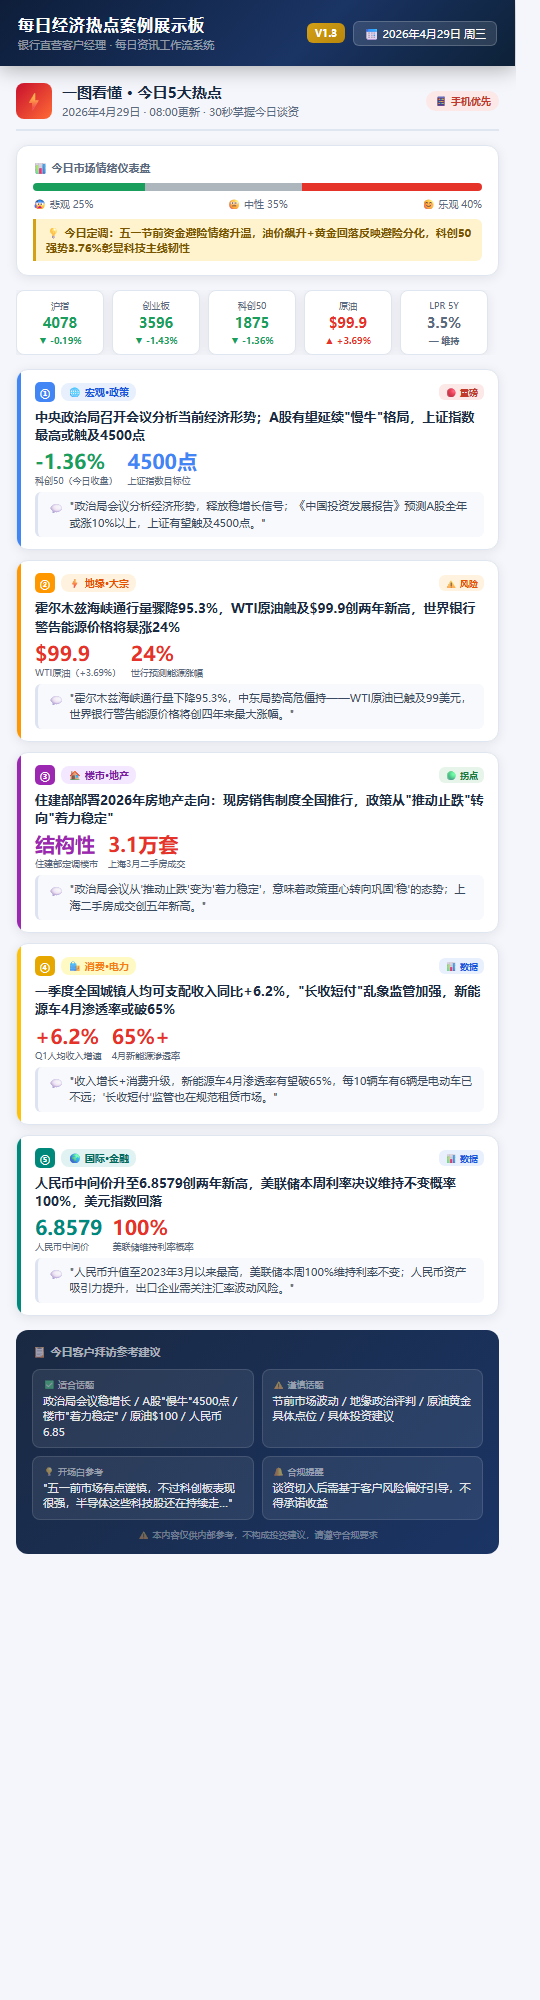
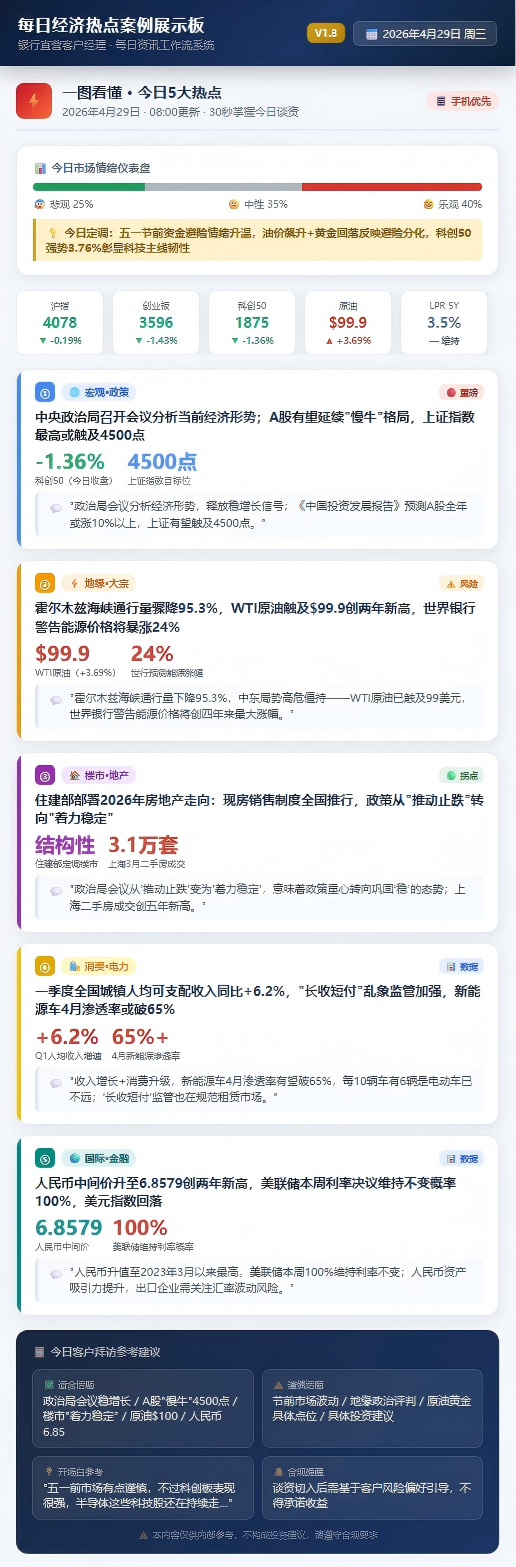
feat: 2026-05-06 每日更新
- 更新日期为2026年5月6日（周三）
- 更新行情数据：沪指4112/创业板3601/布伦特$110/黄金$4590/LPR 3.5%
- 更新5条热点：政治局稳楼市/原油$110/深圳楼市松绑/新能源/美联储分歧
- 生成长图：snappy_v1.3_20260506_final.png
- 归档：archive/daily_board_20260506.html

diff --git a/dist/daily_board.html b/dist/daily_board.html
@@ -3,7 +3,7 @@
 <head>
   <meta charset="UTF-8" />
   <meta name="viewport" content="width=device-width, initial-scale=1.0" />
-  <title>每日经济热点案例展示板 · 2026年4月30日 · V1.3</title>
+  <title>每日经济热点案例展示板 · 2026年5月6日 · V1.3</title>
   <style>
     :root {
       --primary: #1a2942;
@@ -528,7 +528,7 @@
     </div>
     <div class="header-meta">
       <span class="version-badge">V1.3</span>
-      <div class="date-badge">📅 2026年4月30日 &nbsp;|&nbsp; 周四</div>
+      <div class="date-badge">📅 2026年5月6日 &nbsp;|&nbsp; 周三</div>
       <div class="market-status">
         <div class="status-dot"></div>
         <span class="status-text">今日数据</span>
@@ -540,32 +540,32 @@
     <div class="ticker-inner">
       <div class="ticker-item">
         <span class="ticker-label">沪指</span>
-        <span class="ticker-val">4100.52</span>
-        <span class="ticker-chg up">▲ +0.83%</span>
+        <span class="ticker-val">4112.16</span>
+        <span class="ticker-chg up">▲ +0.09%</span>
       </div>
       <div class="sep"></div>
       <div class="ticker-item">
         <span class="ticker-label">深成指</span>
-        <span class="ticker-val">15085.67</span>
-        <span class="ticker-chg up">▲ +0.89%</span>
+        <span class="ticker-val">15062.38</span>
+        <span class="ticker-chg down">▼ -0.09%</span>
       </div>
       <div class="sep"></div>
       <div class="ticker-item">
         <span class="ticker-label">创业板指</span>
-        <span class="ticker-val">3623.45</span>
-        <span class="ticker-chg up">▲ +0.52%</span>
+        <span class="ticker-val">3601.45</span>
+        <span class="ticker-chg down">▼ -0.27%</span>
       </div>
       <div class="sep"></div>
       <div class="ticker-item">
         <span class="ticker-label">科创50</span>
-        <span class="ticker-val">1533.47</span>
-        <span class="ticker-chg up">▲ +3.76%</span>
+        <span class="ticker-val">1556.22</span>
+        <span class="ticker-chg up">▲ +0.65%</span>
       </div>
       <div class="sep"></div>
       <div class="ticker-item">
         <span class="ticker-label">布伦特原油</span>
-        <span class="ticker-val">$110.5</span>
-        <span class="ticker-chg up">▲ +6.2%</span>
+        <span class="ticker-val">$109.99</span>
+        <span class="ticker-chg down">▼ -4.0%</span>
       </div>
       <div class="sep"></div>
       <div class="ticker-item">
@@ -582,8 +582,8 @@
       <div class="sep"></div>
       <div class="ticker-item">
         <span class="ticker-label">全天成交额</span>
-        <span class="ticker-val">~2.6万亿</span>
-        <span class="ticker-chg neutral">≈ 昨日量</span>
+        <span class="ticker-val">~2.8万亿</span>
+        <span class="ticker-chg up">▲ 节后放量</span>
       </div>
     </div>
   </div>
@@ -615,7 +615,7 @@
         <div class="section-icon" style="background:linear-gradient(135deg,#c8102e,#ff6b35);">⚡</div>
         <div>
           <h2>一图看懂 · 今日5大热点</h2>
-          <div class="section-desc">2026年4月30日 · 08:00更新 · 30秒掌握今日谈资</div>
+          <div class="section-desc">2026年5月6日 · 08:00更新 · 30秒掌握今日谈资</div>
         </div>
       </div>
       <span class="section-badge" style="background:#fce8e6;color:#c0392b;">📱 手机优先</span>
@@ -645,23 +645,23 @@
       <div class="quick-market">
         <div class="qm-item">
           <div class="qm-name">沪指</div>
-          <div class="qm-val up">4100</div>
-          <div class="qm-chg up">▲ 震荡</div>
+          <div class="qm-val up">4112</div>
+          <div class="qm-chg up">▲ 节后首日</div>
         </div>
         <div class="qm-item">
           <div class="qm-name">创业板</div>
-          <div class="qm-val up">3623</div>
-          <div class="qm-chg up">▲ +0.75%</div>
+          <div class="qm-val down">3601</div>
+          <div class="qm-chg down">▼ -0.27%</div>
         </div>
         <div class="qm-item">
           <div class="qm-name">布伦特原油</div>
-          <div class="qm-val up">$110</div>
-          <div class="qm-chg up">▲ +6%</div>
+          <div class="qm-val down">$110</div>
+          <div class="qm-chg down">▼ 高位回落</div>
         </div>
         <div class="qm-item">
           <div class="qm-name">黄金</div>
-          <div class="qm-val down">$3280</div>
-          <div class="qm-chg down">▼ 回落</div>
+          <div class="qm-val up">$4590</div>
+          <div class="qm-chg up">▲ +0.73%</div>
         </div>
         <div class="qm-item">
           <div class="qm-name">LPR 5Y</div>
@@ -1523,7 +1523,7 @@
 <!-- ═══════════════ FOOTER ═══════════════ -->
 <footer class="footer">
   <div class="footer-inner">
-    <div>📅 本板内容来源于公开市场信息 &nbsp;|&nbsp; 更新时间：2026年4月30日 08:00（V1.3）&nbsp;|&nbsp; 仅供内部参考，不构成投资建议</div>
+    <div>📅 本板内容来源于公开市场信息 &nbsp;|&nbsp; 更新时间：2026年5月6日 08:00（V1.3）&nbsp;|&nbsp; 仅供内部参考，不构成投资建议</div>
     <div class="footer-disclaimer">⚠ 投资有风险，与客户沟通时请遵守合规要求，不得承诺收益</div>
   </div>
 </footer>

diff --git a/tools/html2png.py b/tools/html2png.py
@@ -12,7 +12,7 @@ from PIL import Image
 from datetime import datetime
 
 # 配置
-HTML_PATH = r"D:\WorkBuddy_WorkSpace\Finance_IntelBoard\assets\images\snappy_v1.3_20260430.html"
+HTML_PATH = r"D:\WorkBuddy_WorkSpace\Finance_IntelBoard\assets\images\snappy_v1.3_20260506.html"
 OUTPUT_PATH = r"D:\WorkBuddy_WorkSpace\Finance_IntelBoard\assets\images"
 EDGE_PATH = r"C:\Program Files (x86)\Microsoft\Edge\Application\msedge.exe"
 VIEWPORT_WIDTH = 550   # 比目标宽10px，留出滚动条区域
